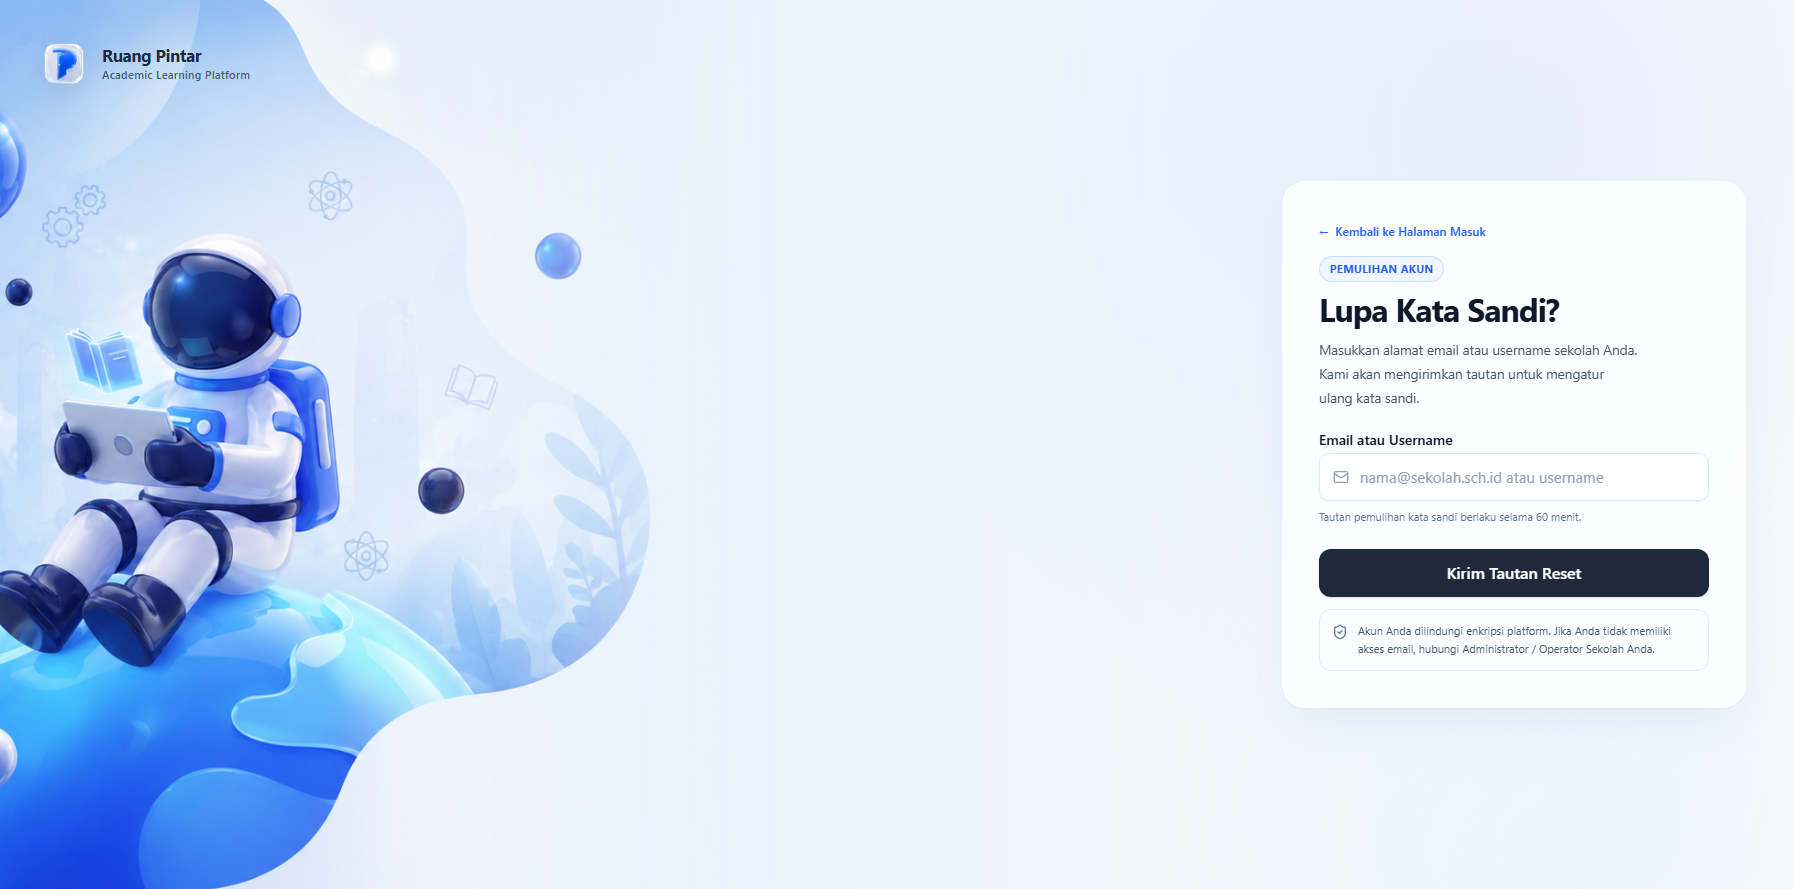
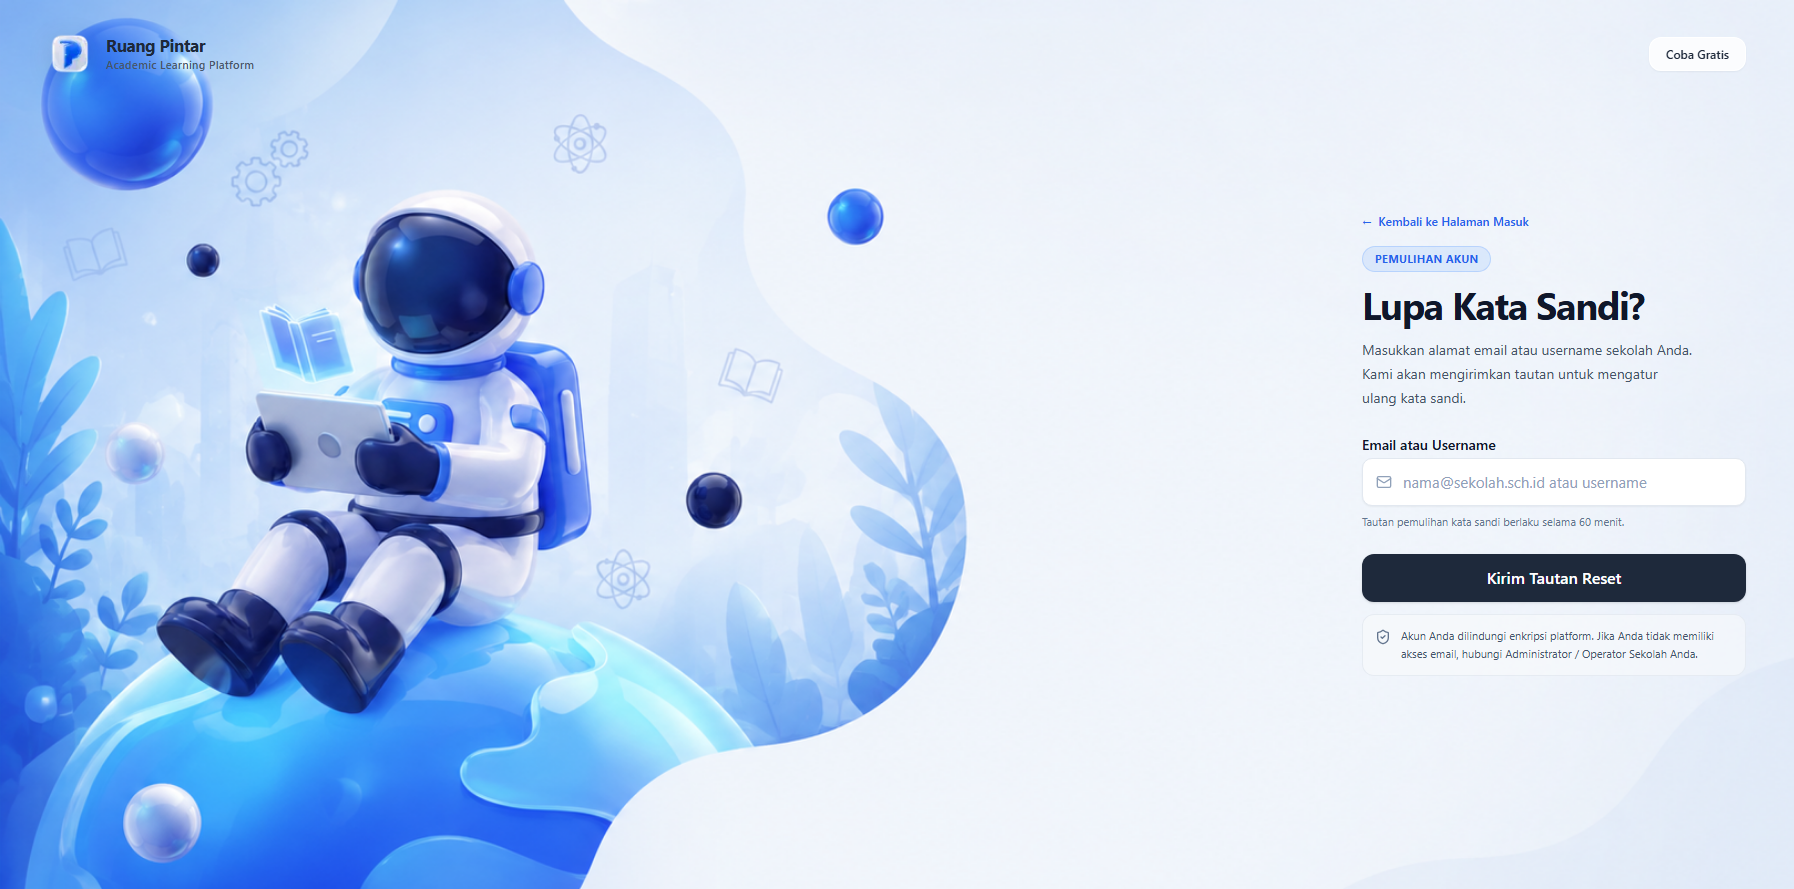
feat(auth): full-bleed astronaut background in its entirety and cardless layout matching auth-layout-reference

diff --git a/src/shared/components/auth/auth-login-layout.tsx b/src/shared/components/auth/auth-login-layout.tsx
@@ -21,50 +21,48 @@ export function AuthLoginLayout({
   wideForm?: boolean;
 }) {
   return (
-    <div className="relative isolate min-h-[100dvh] w-full overflow-hidden bg-gradient-to-r from-[#DFECFA] via-[#EDF5FC] to-[#F8FAFD] text-[#0F172A]">
-      {/* Ambient background glows */}
-      <div
-        aria-hidden="true"
-        className="pointer-events-none absolute inset-0 bg-[radial-gradient(circle_at_85%_15%,rgba(37,99,235,0.06),transparent_40%)]"
-      />
-      <div
-        aria-hidden="true"
-        className="pointer-events-none absolute -bottom-32 right-0 size-[500px] rounded-full bg-gradient-to-tl from-blue-200/20 via-sky-100/30 to-transparent blur-3xl"
-      />
-
-      {/* Background Hero Artwork (Seamless Gradient Blend) */}
+    <div className="relative isolate min-h-[100dvh] w-full overflow-hidden bg-[#E7EEFA] text-[#0F172A]">
+      {/* 
+        Full background illustration: login-hero-astronaut.png used in its entirety.
+        Desktop: The whole 1619x971 artwork covers the viewport. The astronaut is on the left,
+        the organic fluid wave runs through the middle, and the open pastel canvas extends across the right.
+        Mobile: Matches auth-layout-reference.png - clean light background at top, astronaut anchored at bottom.
+      */}
       <div className="pointer-events-none absolute inset-0 z-0 overflow-hidden">
-        {/* Desktop Artwork: Full inset-0 container, image spans left half, mask reaches 100% transparent well before edge */}
+        {/* Desktop: Entire illustration covering the viewport */}
         <div className="hidden lg:block absolute inset-0">
           <img
             src="/images/auth/login-hero-astronaut.png"
-            alt="Astronaut Ruang Pintar"
-            className="h-full w-[65%] xl:w-[60%] 2xl:w-[55%] object-cover object-[26%_center] xl:object-[30%_center] select-none [mask-image:linear-gradient(to_right,black_0%,black_36%,rgba(0,0,0,0.8)_50%,rgba(0,0,0,0.25)_66%,transparent_80%)] [-webkit-mask-image:linear-gradient(to_right,black_0%,black_36%,rgba(0,0,0,0.8)_50%,rgba(0,0,0,0.25)_66%,transparent_80%)]"
+            alt="Ruang Pintar Background"
+            className="h-full w-full object-cover object-left-center 2xl:object-center select-none pointer-events-none"
           />
         </div>
 
-        {/* Mobile / Tablet Artwork: Anchored to bottom with smooth vertical gradient mask */}
-        <div className="lg:hidden absolute bottom-0 inset-x-0 h-[260px] sm:h-[320px]">
-          <img
-            src="/images/auth/login-hero-astronaut.png"
-            alt="Astronaut Ruang Pintar"
-            className="h-full w-full object-cover object-[15%_bottom] select-none [mask-image:linear-gradient(to_top,black_40%,rgba(0,0,0,0.25)_75%,transparent_100%)] [-webkit-mask-image:linear-gradient(to_top,black_40%,rgba(0,0,0,0.25)_75%,transparent_100%)]"
-          />
+        {/* Mobile / Tablet (< lg): Matching reference auth-layout-reference.png */}
+        <div className="lg:hidden absolute inset-0 flex flex-col justify-between">
+          <div className="w-full h-full bg-gradient-to-b from-[#E7EEFA] via-[#EEF5FC] to-[#DFECFB]" />
+          <div className="absolute bottom-0 inset-x-0 h-[280px] sm:h-[340px] overflow-hidden">
+            <img
+              src="/images/auth/login-hero-astronaut.png"
+              alt="Astronaut Ruang Pintar"
+              className="h-full w-full object-cover object-[16%_bottom] select-none pointer-events-none [mask-image:linear-gradient(to_bottom,transparent_0%,#000_22%,#000_100%)] [-webkit-mask-image:linear-gradient(to_bottom,transparent_0%,#000_22%,#000_100%)]"
+            />
+          </div>
         </div>
       </div>
 
       {/* Header Brand Logo (Desktop/Tablet) */}
-      <header className="absolute top-0 left-0 z-30 hidden sm:flex p-6 sm:p-8 lg:p-10">
+      <header className="absolute top-0 inset-x-0 z-30 flex items-center justify-between p-6 sm:p-8 lg:px-12 lg:py-8">
         <Link
           href="/"
-          className="inline-flex items-center gap-3.5 rounded-[12px] pr-3 outline-none focus-visible:ring-3 focus-visible:ring-blue-500/30"
+          className="inline-flex items-center gap-3.5 rounded-xl pr-3 outline-none focus-visible:ring-3 focus-visible:ring-blue-500/30"
         >
-          <div className="relative size-11 sm:size-12 shrink-0 drop-shadow-[0_6px_14px_rgba(15,23,42,0.1)] flex items-center justify-center">
+          <div className="relative size-10 sm:size-11 shrink-0 drop-shadow-[0_4px_12px_rgba(15,23,42,0.12)] flex items-center justify-center">
             <Image
               src="/images/brand/ruang-pintar-mark.png"
               alt="Ruang Pintar Logo"
-              width={48}
-              height={48}
+              width={44}
+              height={44}
               priority
               className="size-full object-contain"
             />
@@ -78,60 +76,59 @@ export function AuthLoginLayout({
             </span>
           </span>
         </Link>
+
+        {/* Top-Right Quick Action Link */}
+        <div className="hidden sm:flex items-center gap-3 text-xs font-semibold">
+          <Link
+            href="/register"
+            className="px-4 py-2 rounded-xl bg-white/80 hover:bg-white text-[#1E293B] border border-white/90 shadow-xs backdrop-blur-sm transition-all"
+          >
+            Coba Gratis
+          </Link>
+        </div>
       </header>
 
-      {/* Main Container */}
-      <main className="relative z-10 min-h-[100dvh] w-full flex flex-col justify-between pt-6 sm:pt-20 lg:grid lg:grid-cols-[minmax(0,1fr)_minmax(460px,560px)] xl:grid-cols-[minmax(0,1.15fr)_minmax(480px,560px)] lg:grid-rows-1 lg:pt-0">
-        {/* Left Column Spacer (Artwork shines through underneath) */}
+      {/* Main Container - Cardless Form Layout matching auth-layout-reference.png */}
+      <main className="relative z-10 min-h-[100dvh] w-full flex flex-col justify-between pt-20 sm:pt-24 lg:grid lg:grid-cols-[minmax(0,1.08fr)_minmax(420px,500px)] xl:grid-cols-[minmax(0,1.18fr)_minmax(440px,480px)] lg:grid-rows-1 lg:pt-0">
+        {/* Left Column Spacer (Full artwork shines through) */}
         <div className="hidden lg:block pointer-events-none" aria-hidden="true" />
 
-        {/* Right Form Container */}
-        <section className="relative z-10 flex w-full flex-col justify-start lg:justify-center items-center px-4 sm:px-8 lg:px-10 xl:px-12 pt-4 pb-8 lg:py-12">
-          {/* Mobile Brand Logo */}
-          <div className="flex sm:hidden items-center justify-center gap-2.5 mb-5">
-            <Image
-              src="/images/brand/ruang-pintar-mark.png"
-              alt="Ruang Pintar Logo"
-              width={34}
-              height={34}
-              priority
-              className="size-8 object-contain drop-shadow-sm"
-            />
-            <span className="text-[16px] font-bold text-[#1E293B] tracking-tight">
-              Ruang Pintar
-            </span>
-          </div>
+        {/* Right Form Container: Perfectly placed in the open pastel canvas */}
+        <section className="relative z-10 flex w-full flex-col justify-start lg:justify-center items-center lg:items-start px-6 sm:px-10 lg:px-8 xl:px-12 pt-4 pb-8 lg:py-12">
+          {/* Optional Back Link */}
+          {backLink && (
+            <Link
+              href={backLink.href}
+              className="inline-flex items-center gap-1.5 text-xs font-semibold text-[#2563EB] hover:text-[#1D4ED8] mb-4 group transition-colors self-start"
+            >
+              <span className="transition-transform group-hover:-translate-x-0.5">&larr;</span>
+              <span>{backLink.label}</span>
+            </Link>
+          )}
 
           <div
             className={`w-full ${
-              wideForm ? "max-w-[560px]" : "max-w-[440px] sm:max-w-[470px]"
-            } rounded-2xl sm:rounded-3xl bg-white/80 backdrop-blur-xl border border-white/90 shadow-[0_20px_50px_-15px_rgba(30,58,138,0.08),0_1px_3px_rgba(15,23,42,0.04)] p-6 sm:p-9 transition-all`}
+              wideForm ? "max-w-[520px]" : "max-w-[420px] sm:max-w-[450px]"
+            }`}
           >
-            {/* Optional Back Link */}
-            {backLink && (
-              <Link
-                href={backLink.href}
-                className="inline-flex items-center gap-1.5 text-xs font-semibold text-[#2563EB] hover:text-[#1D4ED8] mb-4 group transition-colors"
-              >
-                <span className="transition-transform group-hover:-translate-x-0.5">&larr;</span>
-                <span>{backLink.label}</span>
-              </Link>
-            )}
-
             {/* Header Content */}
-            <div className="mb-5 space-y-2 sm:mb-6 sm:space-y-2">
+            <div className="mb-6 space-y-2 sm:mb-7 sm:space-y-2.5">
               {badge && (
-                <div className="inline-flex items-center gap-1.5 px-2.5 py-1 rounded-full bg-blue-50 border border-blue-200/80 text-[#2563EB] text-[11px] font-bold tracking-wide uppercase">
+                <div className="inline-flex items-center gap-1.5 px-3 py-1 rounded-full bg-blue-500/10 border border-blue-500/20 text-[#2563EB] text-[11px] font-bold tracking-wide uppercase">
                   {badge}
                 </div>
               )}
-              <h1 className="text-[22px] leading-[1.2] font-bold tracking-[-0.03em] text-[#0F172A] sm:text-[28px] 2xl:text-[32px]">
+              <h1 className="text-[28px] leading-[1.2] font-bold tracking-[-0.035em] text-[#0F172A] sm:text-[34px] xl:text-[38px]">
                 {title}
               </h1>
-              <p className="max-w-[44ch] text-[12.5px] leading-5 text-[#475569] sm:text-[13.5px] sm:leading-6">
-                {description}
-              </p>
+              {description && (
+                <p className="max-w-[44ch] text-[13px] leading-5 text-[#475569] sm:text-[14px] sm:leading-6">
+                  {description}
+                </p>
+              )}
             </div>
+
+            {/* Form Fields (Clean inputs floating on the open canvas) */}
             {children}
           </div>
         </section>

diff --git a/src/app/login/login-form.tsx b/src/app/login/login-form.tsx
@@ -118,7 +118,7 @@ export function LoginForm({ status }: { status?: string }) {
           variant="primary"
           isLoading={isPending}
           disabled={isPending}
-          className="h-11 sm:h-12 w-full rounded-xl bg-gradient-to-r from-blue-600 via-blue-600 to-indigo-600 hover:from-blue-700 hover:to-indigo-700 active:scale-[0.99] text-white font-semibold shadow-[0_6px_20px_rgba(37,99,235,0.25)] hover:shadow-[0_8px_25px_rgba(37,99,235,0.35)] text-[14px] sm:text-base transition-all cursor-pointer"
+          className="h-12 w-full rounded-xl bg-[#1E293B] hover:bg-[#26364B] active:scale-[0.99] text-white font-semibold shadow-[0_8px_22px_rgba(15,23,42,0.16)] text-[15px] sm:text-base transition-all cursor-pointer"
         >
           Masuk
         </Button>
